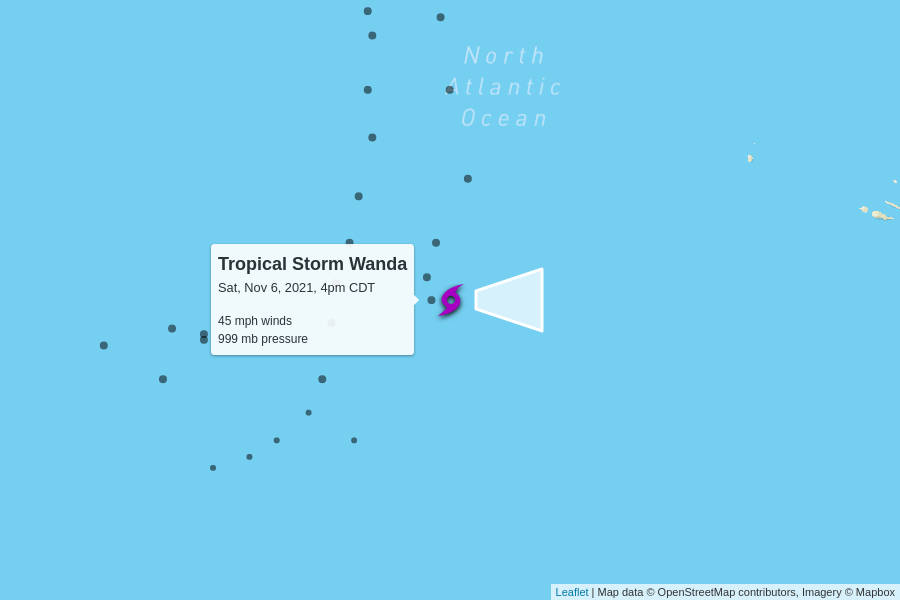
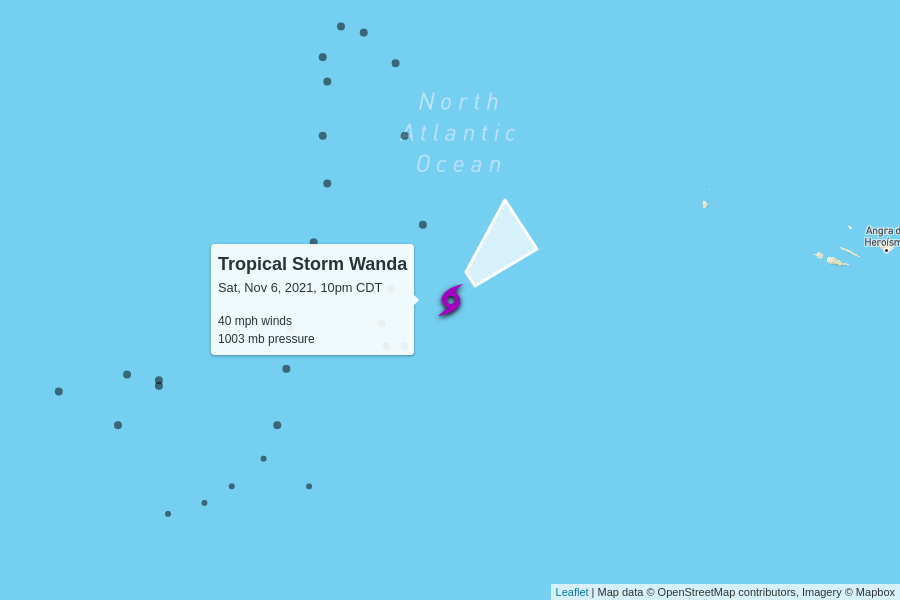
automatic update

diff --git a/docs/index.html b/docs/index.html
@@ -100,7 +100,7 @@
         <td colspan="6" class="storm category-0" >
           <h2>
             Tropical Storm Wanda
-            <p class="updated">last updated <span data-time>2021-11-06T21:00:00.000Z</span></p>
+            <p class="updated">last updated <span data-time>2021-11-07T03:00:00.000Z</span></p>
           </h2>
         </td>
       </tr>
@@ -115,12 +115,12 @@
       </tr>
       <tr>
         <td class="spacer"></td>
-        <td>45 mph</td>
-        <td>999 mb</td>
+        <td>40 mph</td>
+        <td>1003 mb</td>
         <td>
-          3 mph to the east
+          14 mph to the northeast
           <br/>
-          <span style="display: inline-block; font-size: 1.5em; transform: rotate(90deg);">↑</span>
+          <span style="display: inline-block; font-size: 1.5em; transform: rotate(50deg);">↑</span>
         </td>
         <td><a href="https://raw.githubusercontent.com/mgwalker/atlantic-hurricanes/main/data/csv/AL212021.csv">AL212021.csv</a></td>
         <td><a href="https://www.nhc.noaa.gov/archive/2021/WANDA.shtml?">NHC advisories</a></td>
